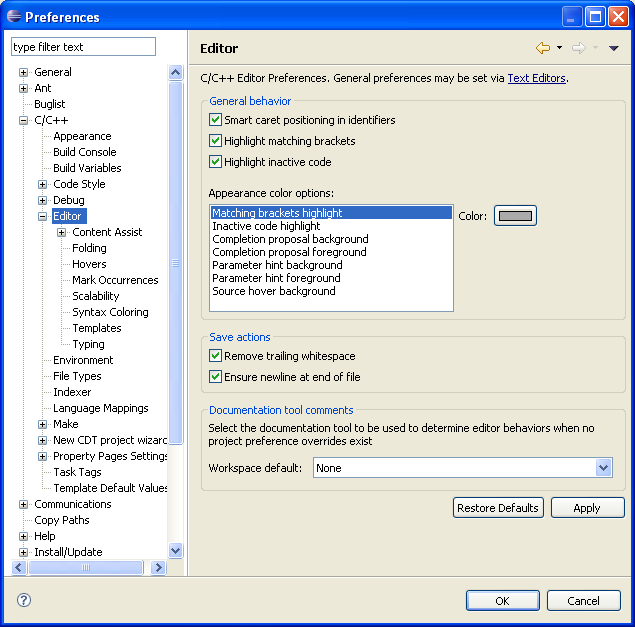
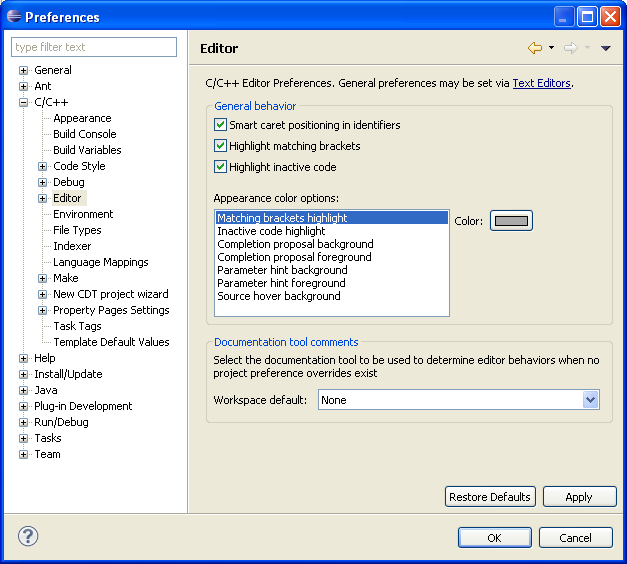
Docs update, related to bug 249359

Changed region(s): [[0.0, 0.0, 1.0, 0.9947]]

diff --git a/all/org.eclipse.cdt.doc.user/reference/cdt_o_ceditor_pref.htm b/all/org.eclipse.cdt.doc.user/reference/cdt_o_ceditor_pref.htm
@@ -20,7 +20,8 @@
 		<img src="../images/trans.gif" border="0" width="25" height="1" alt=""><a style="text-decoration:none" href="cdt_u_c_editor_folding.htm">Folding preferences</a><br>
 		<img src="../images/trans.gif" border="0" width="25" height="1" alt=""><a style="text-decoration:none" href="cdt_u_c_editor_hov.htm">Hovers preferences</a><br>
 		<img src="../images/trans.gif" border="0" width="25" height="1" alt=""><a style="text-decoration:none" href="cdt_u_c_editor_mark_occurrences.htm">Mark Occurrences preferences</a><br>
-		<img src="../images/trans.gif" border="0" width="25" height="1" alt=""><a style="text-decoration:none" href="cdt_u_c_editor_scalability.htm">Scalability preferences</a>
+		<img src="../images/trans.gif" border="0" width="25" height="1" alt=""><a style="text-decoration:none" href="cdt_u_c_editor_save_actions.htm">Save Actions preferences</a><br>
+		<img src="../images/trans.gif" border="0" width="25" height="1" alt=""><a style="text-decoration:none" href="cdt_u_c_editor_scalability.htm">Scalability preferences</a><br>
 		<img src="../images/trans.gif" border="0" width="25" height="1" alt=""><a style="text-decoration:none" href="cdt_u_c_editor_color.htm">Syntax Coloring preferences</a><br>
 		<img src="../images/trans.gif" border="0" width="25" height="1" alt=""><a style="text-decoration:none" href="cdt_u_code_temp.htm">Templates preferences</a><br>
 		<img src="../images/trans.gif" border="0" width="25" height="1" alt=""><a style="text-decoration:none" href="cdt_u_c_editor_typing.htm">Typing preferences</a>
